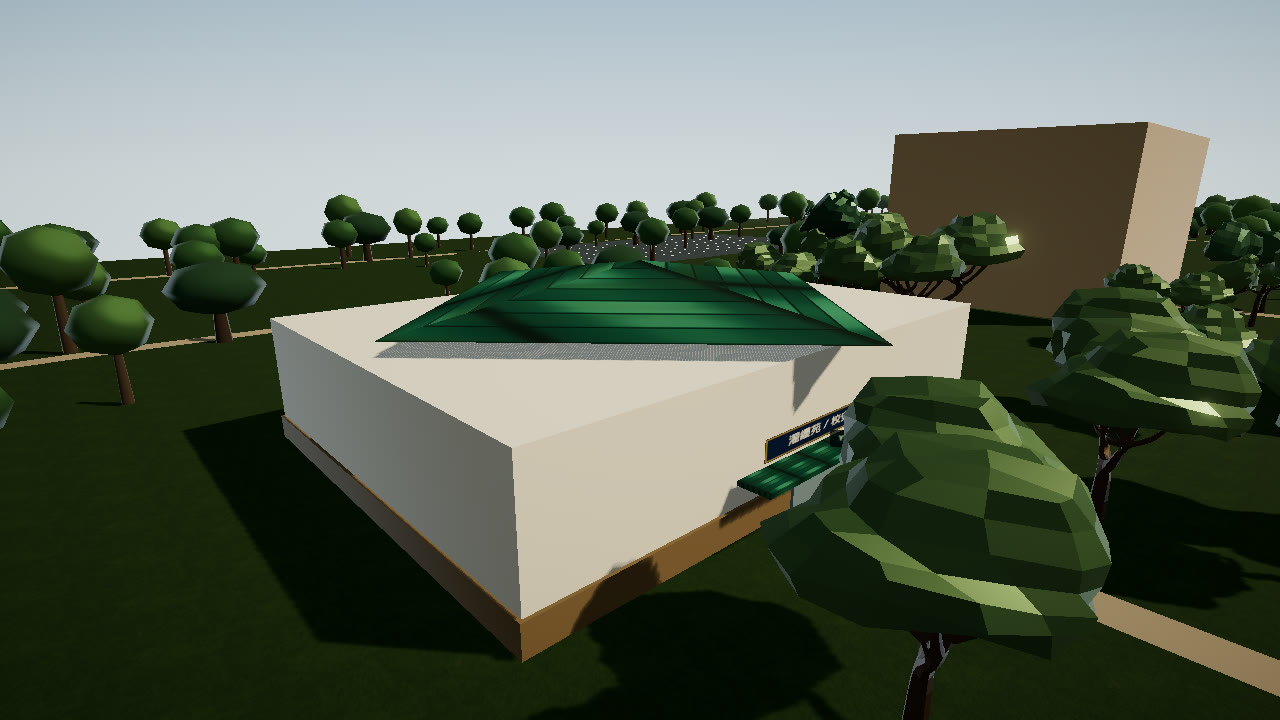
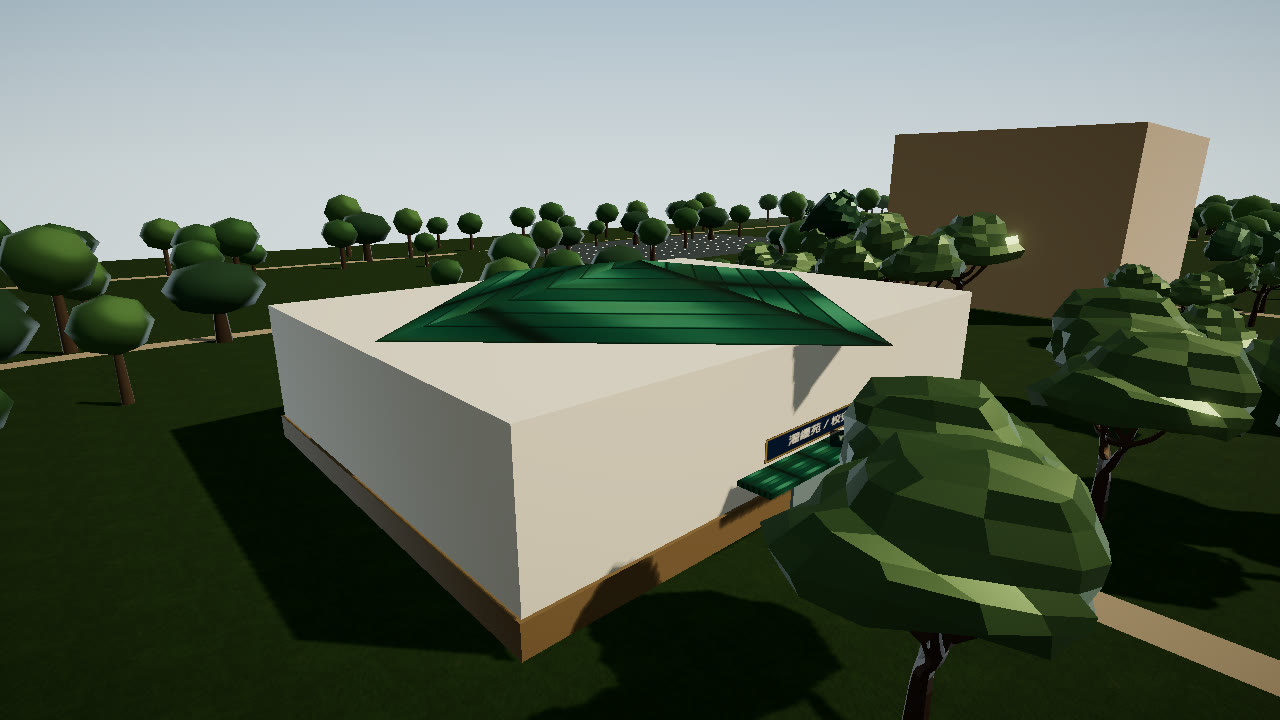
Seat the Yingyuan wall on the plinth so it meets the roof.
The upper wall was centered on the plinth, leaving a 0.7 m gap under the hip roof. It now starts at the plinth top and ends at the roof base.

diff --git a/src/game/world/ContextStructures.tsx b/src/game/world/ContextStructures.tsx
@@ -880,12 +880,12 @@ export function ContextStructures({
           const profile = gardenHouseProfile(s.size);
           return (
             <group key={s.id} position={[s.position[0], y, s.position[1]]} rotation={[0, s.rotationY, 0]}>
-              <mesh position={[0, 0.7, 0]} castShadow receiveShadow>
-                <boxGeometry args={[s.size[0], 1.4, s.size[2]]} />
+              <mesh position={[0, profile.baseH / 2, 0]} castShadow receiveShadow>
+                <boxGeometry args={[s.size[0], profile.baseH, s.size[2]]} />
                 <meshStandardMaterial color="#8d734c" roughness={0.86} />
               </mesh>
-              <mesh position={[0, 0.7 + (s.size[1] - 1.4) / 2, 0]} castShadow receiveShadow>
-                <boxGeometry args={[s.size[0] - 0.3, Math.max(1, s.size[1] - 1.4), s.size[2] - 0.3]} />
+              <mesh position={[0, profile.wallY, 0]} castShadow receiveShadow>
+                <boxGeometry args={[s.size[0] - 0.3, profile.bodyH, s.size[2] - 0.3]} />
                 <meshStandardMaterial color="#f6f1e6" roughness={0.84} />
               </mesh>
               <mesh position={[0, s.size[1] + profile.roofH / 2, 0]} castShadow>

diff --git a/src/game/world-data/zones/secondary.ts b/src/game/world-data/zones/secondary.ts
@@ -405,7 +405,12 @@ export function memorialProfile(size: readonly [number, number, number]) {
 export function gardenHouseProfile(size: readonly [number, number, number]) {
   const porchD = 1.6;
   const porchH = Math.min(2.6, Math.max(2.2, size[1] * 0.34));
+  const baseH = 1.4;
+  const bodyH = Math.max(0, size[1] - baseH);
   return {
+    baseH,
+    bodyH,
+    wallY: baseH + bodyH / 2,
     roofH: Math.min(2.2, Math.max(1.5, size[1] * 0.28)),
     roofR: Math.min(size[0], size[2]) * 0.62,
     porchW: Math.min(12, size[0] * 0.42),
